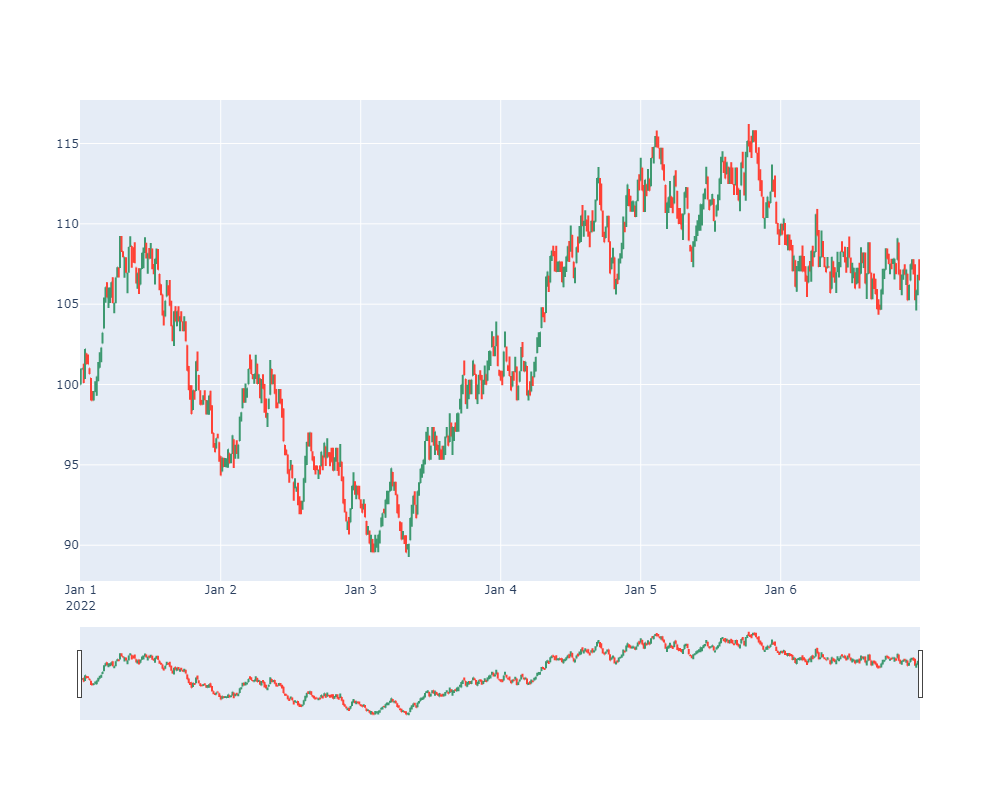
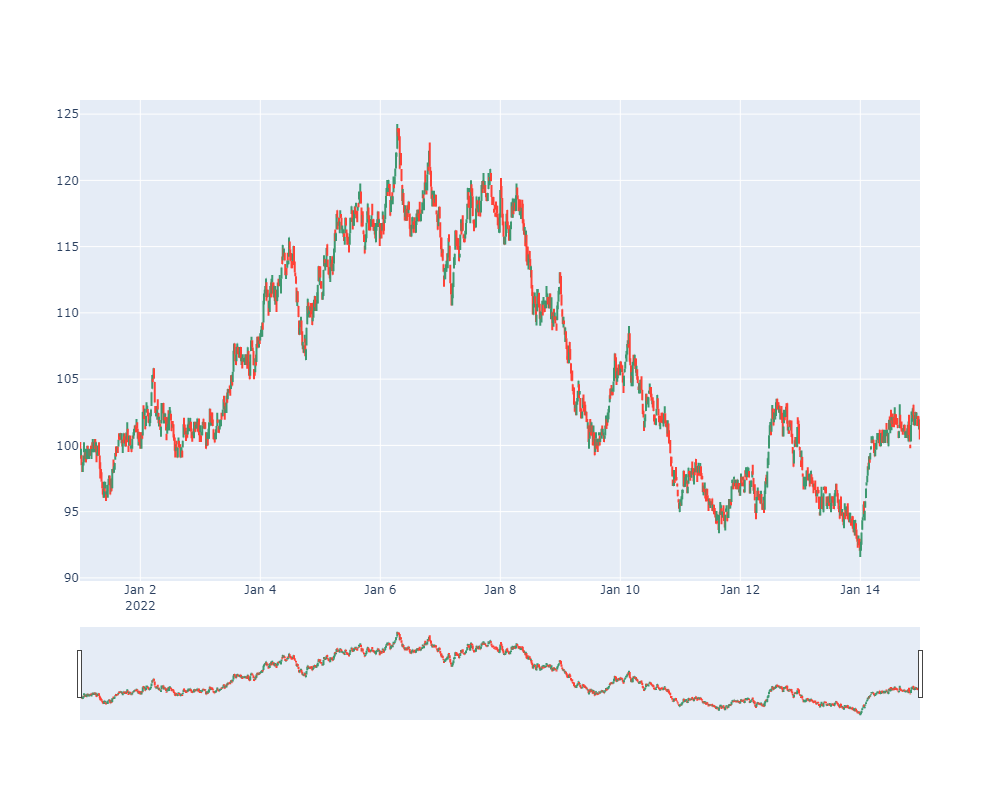
update readme file and plots

diff --git a/README.md b/README.md
@@ -22,6 +22,7 @@
     - [Instantiate a Simulator](#instantiate-a-simulator)
     - [Add trading agents](#add-trading-agents)
     - [Run the simulation](#run-the-simulation)
+    - [Plot the results](#plot-the-results)
   - [Project Documentation](#project-documentation)
 
 ## qmrExchange Overview
@@ -58,11 +59,11 @@ from datetime import datetime
 ```
 
 ### Declare basic parameters for the simulation
-qmrExchange allows for simulating multiple tickers at once, for statistical arbitrage and high-frequency-trading simulations. In the present case, we simulate 1 week worth of 1 minute data (24/7 trading).
+qmrExchange allows for simulating multiple tickers at once, for statistical arbitrage and high-frequency-trading simulations. In the present case, we simulate 2 weeks worth of 1 minute data (24/7 trading).
 
 ```python
 from_date = datetime(2022,1,1)
-to_date = datetime(2022,1,7)
+to_date = datetime(2022,1,15)
 time_interval = 'minute'
 tickers = ['XYZ']
 ```
@@ -75,21 +76,15 @@ sim.exchange.create_asset(tickers[0])
 ```
 
 ### Add trading agents
-- We add a few naive market makers that create both buy and sell orders in each period. They set the price based on the last traded price and the specified spread percentage.
+- We add a naive market maker that creates both buy and sell orders in each period. It quotes buy and sell prices based on the last traded price and the specified spread percentage.
 - We add a market taker that randomly buys and sells (based on the defined probabilities) on each period by means of market ordes (hence the word 'taker').
 
+
 ```python
-mm1 = NaiveMarketMaker(name='market_maker1', tickers=tickers, aum=10_000, spread_pct=0.005, qty_per_order=1)
-mm2 = NaiveMarketMaker(name='market_maker2', tickers=tickers, aum=10_000, spread_pct=0.006,qty_per_order=1)
-mm3 = NaiveMarketMaker(name='market_maker3', tickers=tickers, aum=10_000, spread_pct=0.007, qty_per_order=1)
-mm4 = NaiveMarketMaker(name='market_maker4', tickers=tickers, aum=10_000, spread_pct=0.01, qty_per_order=1)
+mm = NaiveMarketMaker(name='market_maker', tickers=tickers, aum=1_000, spread_pct=0.005, qty_per_order=4)
+sim.add_agent(mm)
 
-sim.add_agent(mm1)
-sim.add_agent(mm2)
-sim.add_agent(mm3)
-sim.add_agent(mm4)
-
-mt = RandomMarketTaker(name='market_taker', tickers=tickers, aum=10_1000, prob_buy=.2, prob_sell=.2, qty_per_order=2)
+mt = RandomMarketTaker(name='market_taker', tickers=tickers, aum=1_000, prob_buy=.2, prob_sell=.2, qty_per_order=1,seed=42)
 sim.add_agent(mt)
 ```
 
@@ -106,26 +101,35 @@ sim.trades
 ```
 
 ```
-Output:
-
-| dt                  | ticker   |   qty |   price | buyer         | seller        |
-|:--------------------|:---------|------:|--------:|:--------------|:--------------|
-| 2022-01-01 00:00:00 | XYZ      |     1 |  100    | init_seed     | init_seed     |
-| 2022-01-01 00:00:00 | XYZ      |     1 |   99.75 | market_maker1 | market_taker  |
-| 2022-01-01 00:00:00 | XYZ      |     1 |   99.7  | market_maker2 | market_taker  |
-| 2022-01-01 00:01:00 | XYZ      |     1 |   99.95 | market_taker  | market_maker1 |
-| 2022-01-01 00:01:00 | XYZ      |     1 |  100    | market_taker  | market_maker2 |
-| 2022-01-01 00:05:00 | XYZ      |     1 |   99.75 | market_maker1 | market_taker  |
-| 2022-01-01 00:05:00 | XYZ      |     1 |   99.7  | market_maker2 | market_taker  |
-| 2022-01-01 00:09:00 | XYZ      |     1 |   99.95 | market_taker  | market_maker1 |
-| 2022-01-01 00:09:00 | XYZ      |     1 |  100    | market_taker  | market_maker2 |
-| 2022-01-01 00:10:00 | XYZ      |     1 |  100.25 | market_taker  | market_maker1 |
+| dt                  | ticker   |   qty |   price | buyer        | seller       |
+|:--------------------|:---------|------:|--------:|:-------------|:-------------|
+| 2022-01-01 00:00:00 | XYZ      |     1 |  100    | init_seed    | init_seed    |
+| 2022-01-01 00:04:00 | XYZ      |     1 |  100.25 | market_taker | market_maker |
+| 2022-01-01 00:10:00 | XYZ      |     1 |  100    | market_maker | market_taker |
+| 2022-01-01 00:11:00 | XYZ      |     0 |   99.75 | market_maker | market_taker |
+| 2022-01-01 00:13:00 | XYZ      |     0 |   99.5  | market_maker | market_taker |
+| 2022-01-01 00:14:00 | XYZ      |     0 |   99.25 | market_maker | market_taker |
+| 2022-01-01 00:15:00 | XYZ      |     1 |   99.5  | market_taker | market_maker |
+| 2022-01-01 00:16:00 | XYZ      |     1 |   99.75 | market_taker | market_maker |
+| 2022-01-01 00:18:00 | XYZ      |     2 |   99.5  | market_maker | market_taker |
+| 2022-01-01 00:19:00 | XYZ      |     0 |   99.25 | market_maker | market_taker |
+| 2022-01-01 00:20:00 | XYZ      |     0 |   99    | init_seed    | market_taker |
+| 2022-01-01 00:21:00 | XYZ      |     1 |   99.25 | market_taker | market_maker |
+| 2022-01-01 00:22:00 | XYZ      |     1 |   99    | init_seed    | market_taker |
+| 2022-01-01 00:24:00 | XYZ      |     1 |   99.25 | market_taker | market_maker |
+| 2022-01-01 00:25:00 | XYZ      |     1 |   99.5  | market_taker | market_maker |
+| 2022-01-01 00:27:00 | XYZ      |     2 |   99.25 | market_maker | market_taker |
+| 2022-01-01 00:28:00 | XYZ      |     1 |   99.5  | market_taker | market_maker |
+| 2022-01-01 00:30:00 | XYZ      |     1 |   99.25 | market_maker | market_taker |
+| 2022-01-01 00:38:00 | XYZ      |     0 |   99    | market_maker | market_taker |
+| 2022-01-01 00:39:00 | XYZ      |     0 |   98.75 | market_maker | market_taker |
 ```
 
 Group asset price in fixed 15 Minute OHLCV Bars
 
 ```python
-df_15min = sim.get_price_bars(bar_size='15Min')
+df_15min = sim.get_price_bars(ticker=tickers[0],bar_size='15Min')
+df_15min
 ```
 
 ```
@@ -133,27 +137,86 @@ Output:
 
 | dt                  |   open |   high |   low |   close |   volume |
 |:--------------------|-------:|-------:|------:|--------:|---------:|
-| 2022-01-01 00:00:00 | 100    |  100.9 |  99.7 |   100.9 |       15 |
-| 2022-01-01 00:15:00 | 100.65 |  101   | 100.6 |   101   |       16 |
-| 2022-01-01 00:30:00 | 100.75 |  101.3 | 100.7 |   101.3 |       14 |
-| 2022-01-01 00:45:00 | 101.05 |  101.6 |  99.8 |    99.8 |       18 |
-| 2022-01-01 01:00:00 | 100.05 |  100.1 |  99.2 |    99.2 |       12 |
-| 2022-01-01 01:15:00 |  99.45 |   99.9 |  99   |    99   |       18 |
-| 2022-01-01 01:30:00 |  99    |   99.9 |  99   |    99.9 |       16 |
-| 2022-01-01 01:45:00 | 100.15 |  100.2 |  98.7 |    98.7 |       12 |
-| 2022-01-01 02:00:00 |  98.95 |   99.3 |  98.7 |    99.3 |        8 |
-| 2022-01-01 02:15:00 |  99.05 |   99.3 |  98.7 |    99   |       10 |
+| 2022-01-01 00:00:00 | 100    | 100.25 | 99.25 |   99.25 |        3 |
+| 2022-01-01 00:15:00 |  99.5  |  99.75 | 99    |   99.5  |       11 |
+| 2022-01-01 00:30:00 |  99.25 |  99.25 | 98.5  |   98.75 |        2 |
+| 2022-01-01 00:45:00 |  98.5  |  98.5  | 98    |   98.24 |        2 |
+| 2022-01-01 01:00:00 |  97.99 |  98.73 | 97.99 |   98.23 |        9 |
+| 2022-01-01 01:15:00 |  98.48 |  99.23 | 98.48 |   99.23 |       11 |
+| 2022-01-01 01:30:00 |  99.48 | 100.23 | 99.48 |   99.73 |        9 |
+| 2022-01-01 01:45:00 |  99.48 |  99.48 | 98.98 |   98.98 |        2 |
+| 2022-01-01 02:00:00 |  99.23 |  99.73 | 98.73 |   99.73 |        9 |
+| 2022-01-01 02:15:00 |  99.48 |  99.48 | 98.73 |   98.73 |        5 |
+| 2022-01-01 02:30:00 |  98.98 |  99.73 | 98.98 |   99.23 |       10 |
+| 2022-01-01 02:45:00 |  98.98 |  99.98 | 98.98 |   99.73 |        8 |
+| 2022-01-01 03:00:00 |  99.98 |  99.98 | 99.73 |   99.73 |        4 |
+| 2022-01-01 03:15:00 |  99.48 |  99.73 | 99.48 |   99.73 |        5 |
+| 2022-01-01 03:30:00 |  99.48 |  99.73 | 98.98 |   99.73 |        4 |
+| 2022-01-01 03:45:00 |  99.48 |  99.73 | 99.23 |   99.23 |        5 |
+| 2022-01-01 04:00:00 |  99.48 |  99.73 | 99.23 |   99.73 |        9 |
+| 2022-01-01 04:15:00 |  99.98 |  99.98 | 99.23 |   99.48 |        7 |
+| 2022-01-01 04:30:00 |  99.23 |  99.73 | 98.98 |   99.73 |        5 |
+| 2022-01-01 04:45:00 |  99.98 | 100.23 | 99.73 |   99.73 |        7 |
 ```
 
-Create a candlestick plot of the aggregated bar data
+Retrieve a dataframe of an agents holding at each period of time
+```python
+mt_holdings = sim.get_portfolio_history('market_taker')
+mm_holdings = sim.get_portfolio_history('market_maker')
+```
+
+```
+| dt                  |    XYZ |    cash |     aum |
+|:--------------------|-------:|--------:|--------:|
+| 2022-01-01 00:00:00 |   0    | 1000    | 1000    |
+| 2022-01-01 00:01:00 |   0    | 1000    | 1000    |
+| 2022-01-01 00:02:00 |   0    | 1000    | 1000    |
+| 2022-01-01 00:03:00 |   0    | 1000    | 1000    |
+| 2022-01-01 00:04:00 | 100.25 |  899.75 | 1000    |
+| 2022-01-01 00:05:00 | 100.25 |  899.75 | 1000    |
+| 2022-01-01 00:06:00 | 100.25 |  899.75 | 1000    |
+| 2022-01-01 00:07:00 | 100.25 |  899.75 | 1000    |
+| 2022-01-01 00:08:00 | 100.25 |  899.75 | 1000    |
+| 2022-01-01 00:09:00 | 100.25 |  899.75 | 1000    |
+| 2022-01-01 00:10:00 |   0    |  999.75 |  999.75 |
+| 2022-01-01 00:11:00 |   0    |  999.75 |  999.75 |
+| 2022-01-01 00:12:00 |   0    |  999.75 |  999.75 |
+| 2022-01-01 00:13:00 |   0    |  999.75 |  999.75 |
+| 2022-01-01 00:14:00 |   0    |  999.75 |  999.75 |
+| 2022-01-01 00:15:00 |  99.5  |  900.25 |  999.75 |
+| 2022-01-01 00:16:00 | 199.5  |  800.5  | 1000    |
+| 2022-01-01 00:17:00 | 199.5  |  800.5  | 1000    |
+| 2022-01-01 00:18:00 |   0    |  999.5  |  999.5  |
+| 2022-01-01 00:19:00 |   0    |  999.5  |  999.5  |
+```
+
+### Plot the results
+
+Create a candlestick chart for the asset price.
 
 ```python
 from source.helpers import plot_bars
+df_15min = sim.get_price_bars(ticker=tickers[0], bar_size='15Min')
 plot_bars(df_15min)
 ```
-
-
 ![image info](misc/plot.png)
+
+Plot the assets under management of each agent
+
+```python
+import plotly.express as px
+import pandas as pd
+
+df_plot = pd.DataFrame()
+df_plot['Market Maker'] = mm_holdings['aum']
+df_plot['Market Taker'] = mt_holdings['aum']
+fig = px.line(df_plot,labels={'variable':'Agents','value':'Assets Under Management','dt':'Date'})
+fig.show()
+```
+![image info](misc/aum_plot.png)
+
+
+
 
 ## Project Documentation
 In order to further explore the project, take a look at our documentation:
